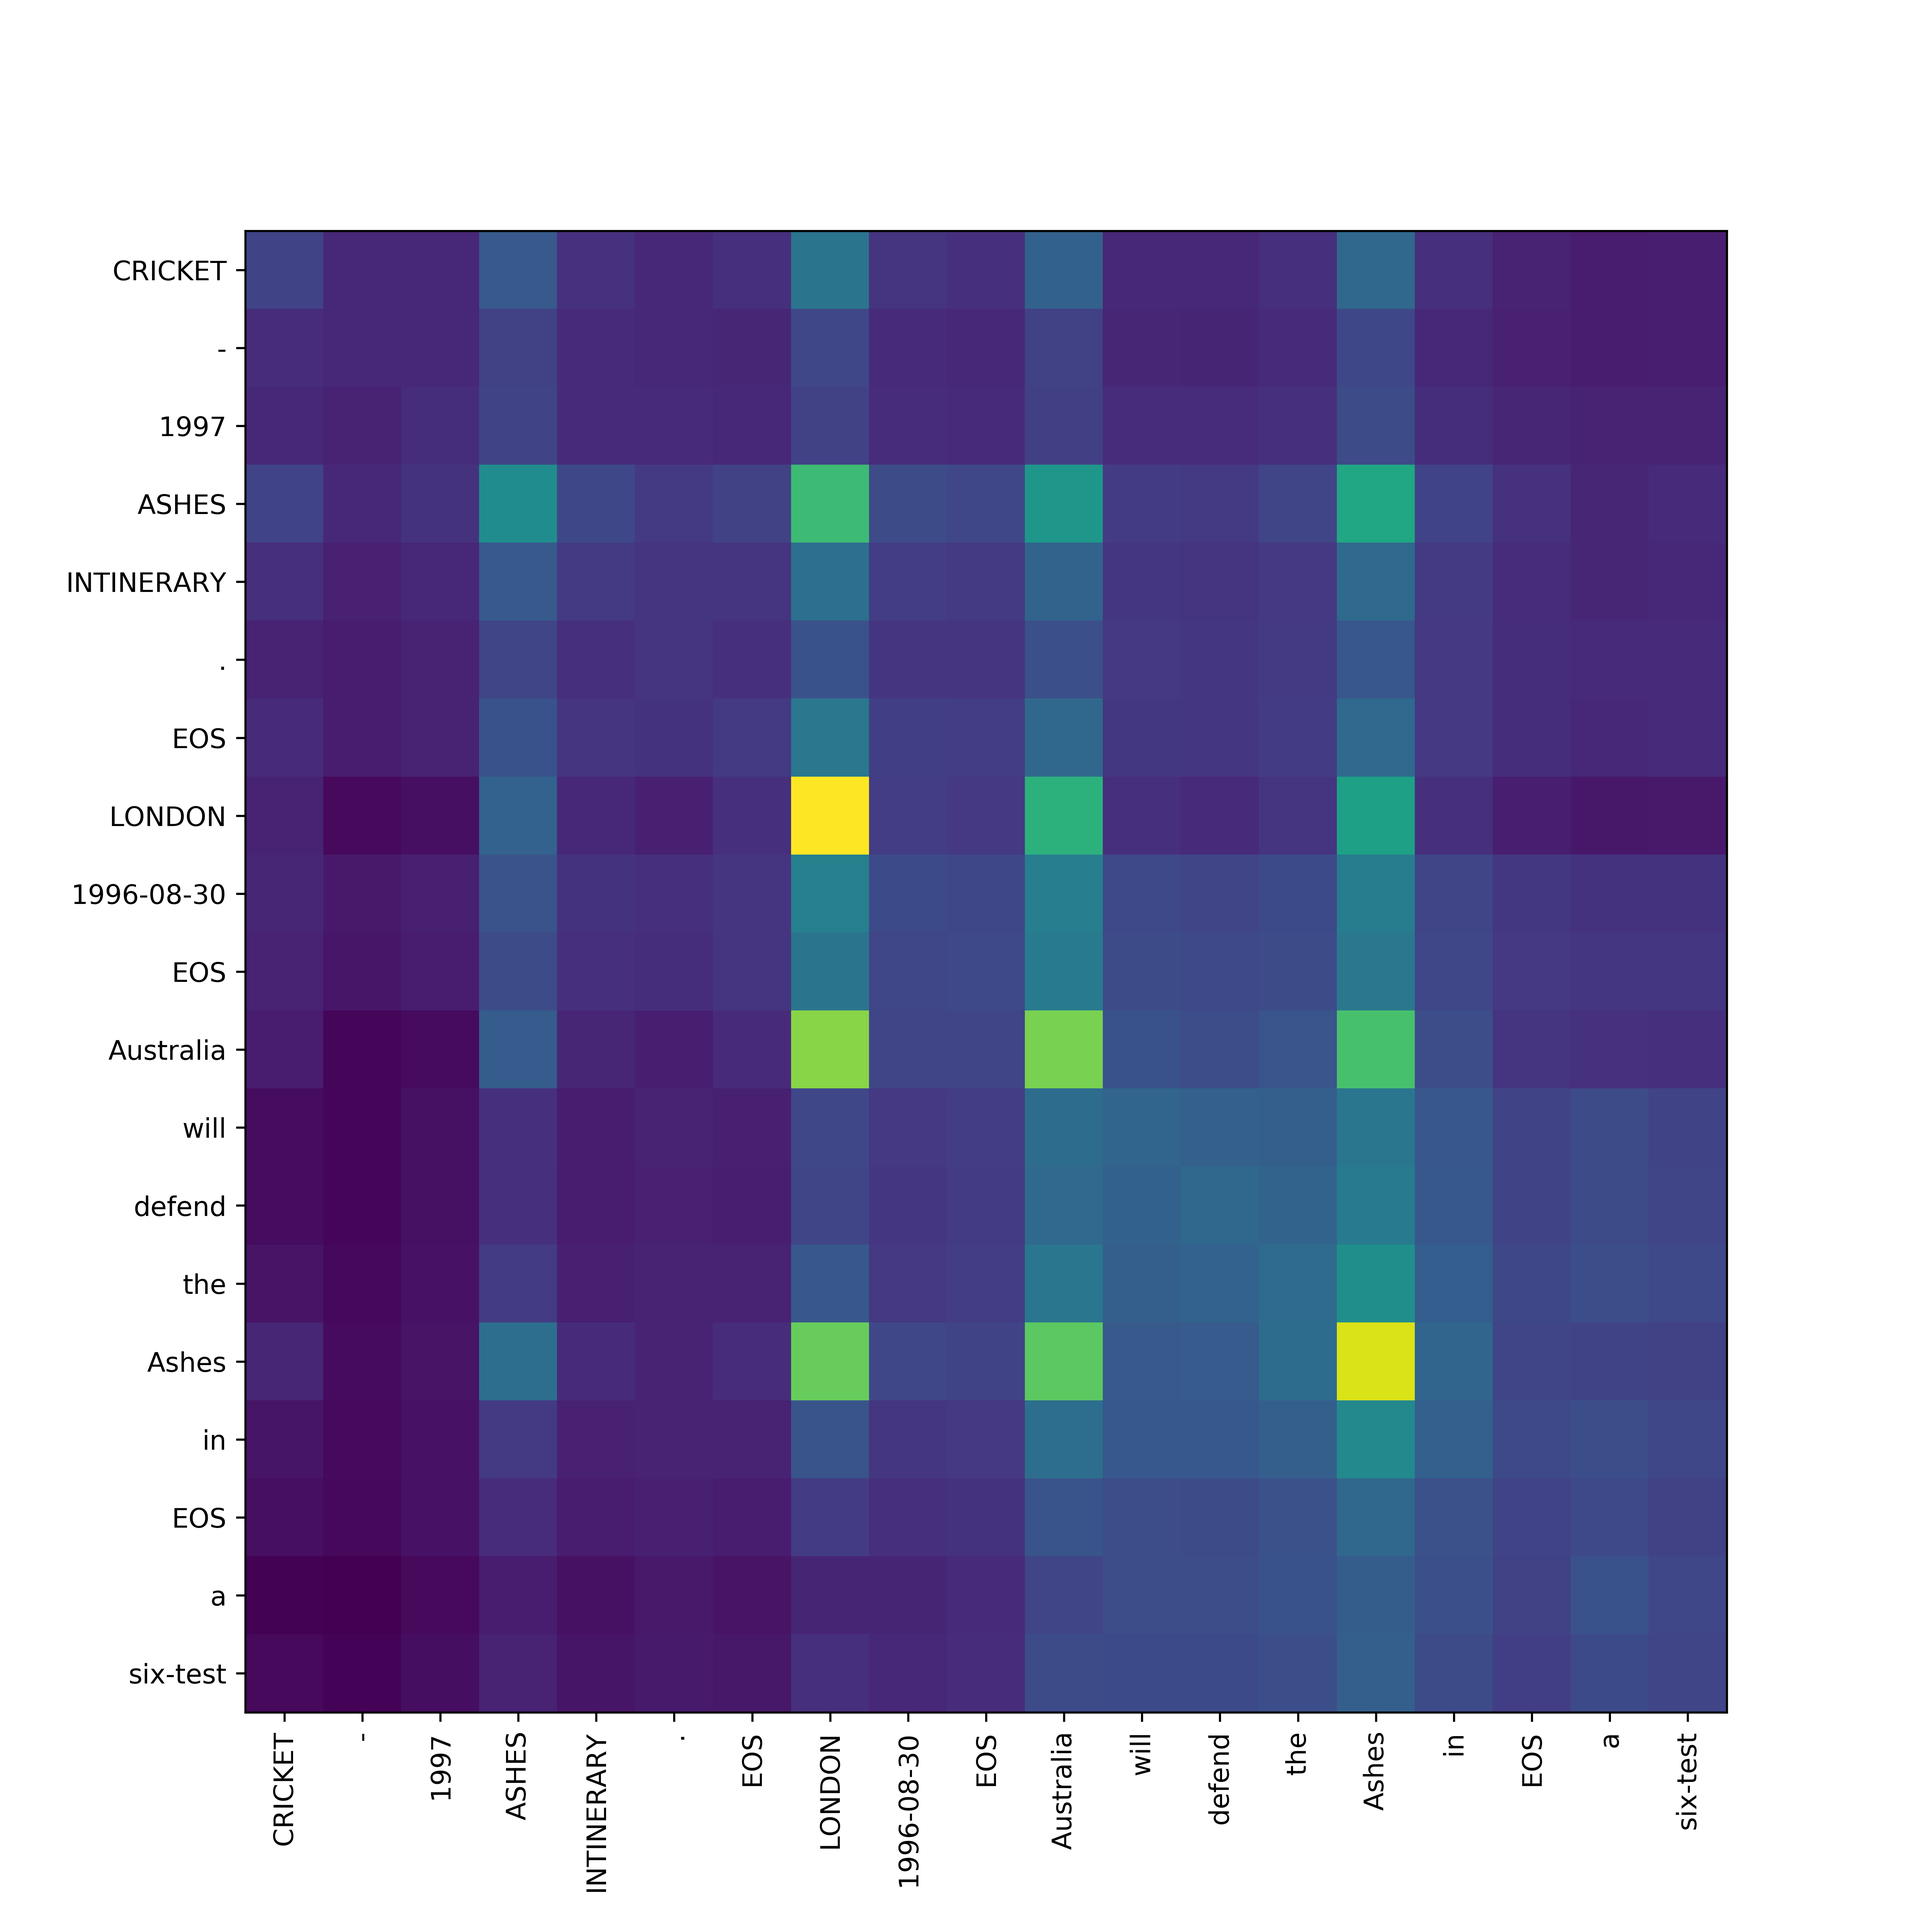
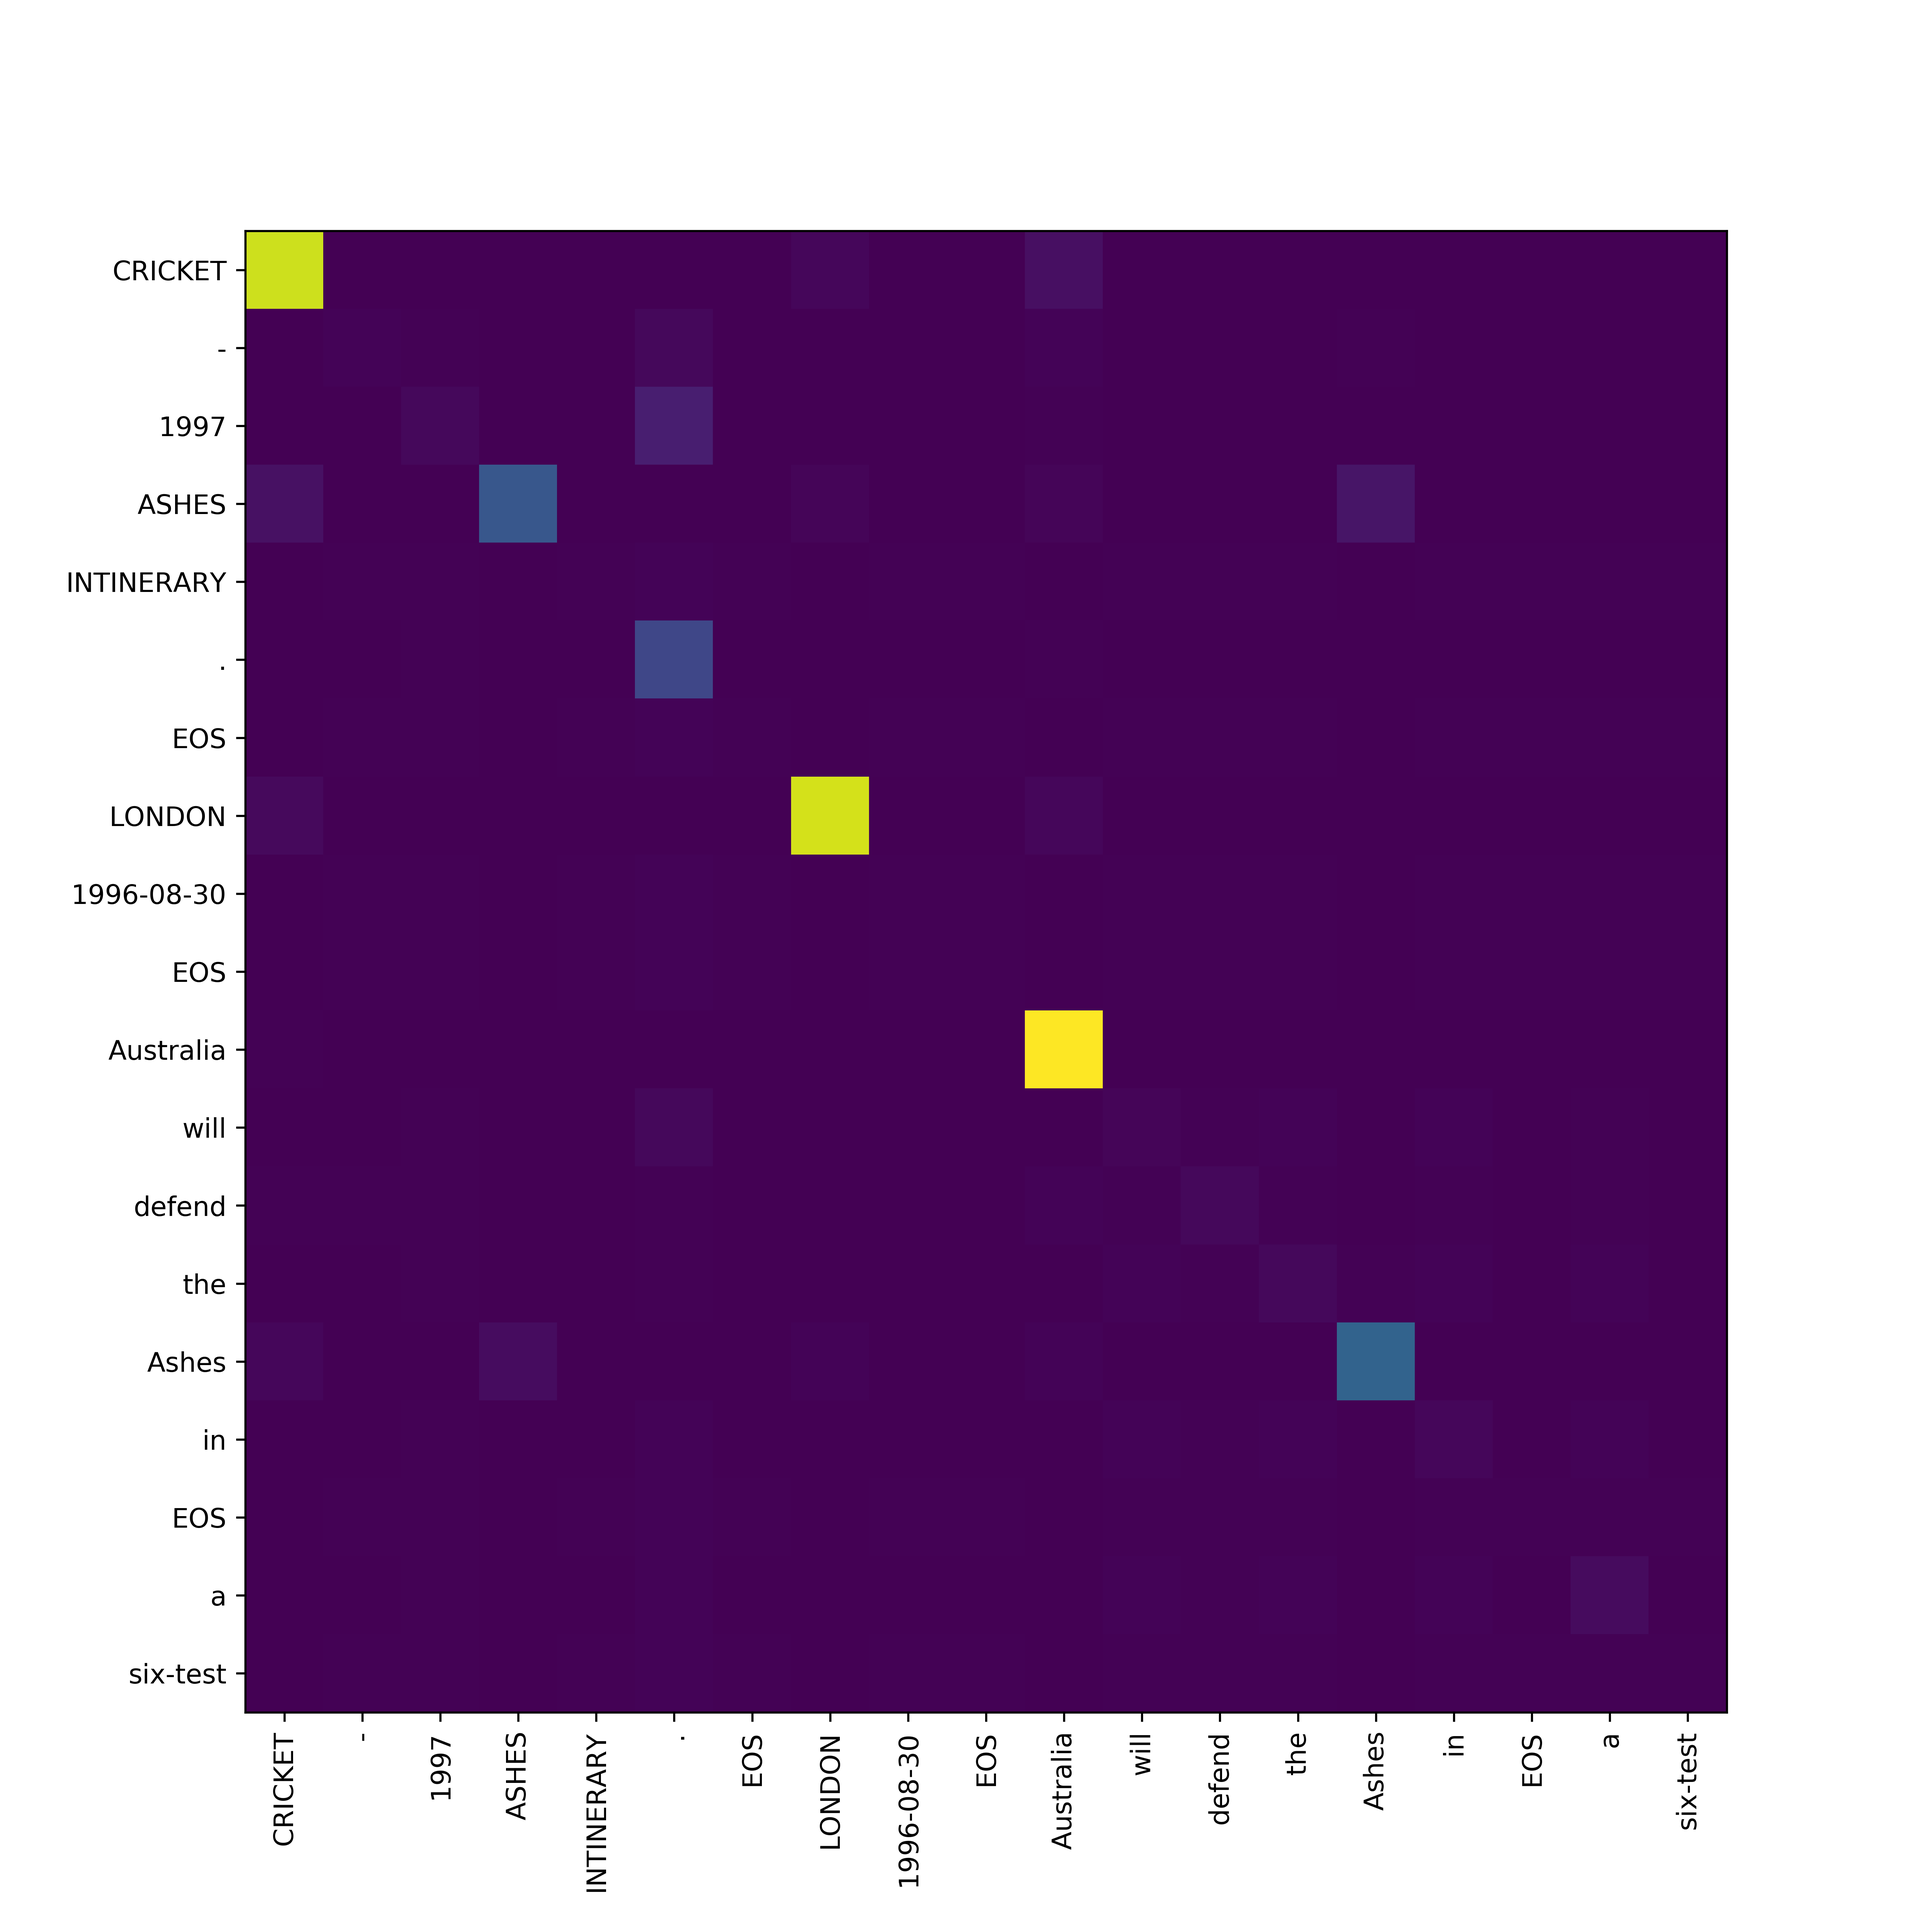
Multiheaded attention.

diff --git a/model/model.py b/model/model.py
@@ -19,7 +19,7 @@ params = {
     'num_oov_buckets': 1,
     'filters': 50,
     'kernel_size': 3,
-    'lstm_size': 400,
+    'lstm_size': 200,
     'attention_size': 150,
     'learning_rate': 0.001,
     'words': str(Path(DATADIR, 'vocab.words.txt')),
@@ -91,12 +91,12 @@ def bahdanau(x, attention_size=100, name='bahdanau'):
   z = tf.map_fn(fn, v)
   return tf.transpose(z, [2, 1, 0], name=name) 
 
-def single_head_self_attention(inputs, name='shsa'):
+def single_head_self_attention(inputs, outputs, name='shsa'):
   hidden_size = inputs.shape[2].value
 
   queries = tf.layers.dense(inputs, hidden_size)
   keys    = queries
-  values  = tf.layers.dense(inputs, hidden_size)
+  values  = tf.layers.dense(outputs, hidden_size)
 
   dot = tf.matmul(queries, tf.transpose(keys, [0, 2, 1]))
   scaled_dot = tf.divide(dot, math.sqrt(hidden_size))
@@ -107,15 +107,15 @@ def single_head_self_attention(inputs, name='shsa'):
 def multi_head_self_attention(inputs, outputs):
   hidden_size = inputs.shape[2].value
 
-  num_heads = 4
+  num_heads = 2
   att_layers = []
   for i in range(num_heads):
-    att_layers.append(single_head_self_attention(inputs, name='alphas' + str(i)))
+    att_layers.append(single_head_self_attention(inputs, outputs, name='alphas' + str(i)))
 
   return tf.layers.dense(tf.concat(att_layers, axis=-1), hidden_size)
 
-def attention(input1, input2, attention_size, training=False):
-  return multi_head_self_attention(input1, input1)
+def attention(inputs, outputs, attention_size, training=False):
+  return multi_head_self_attention(inputs, outputs)
   # return self_attention(input1, input2, training=training)
 
   # hidden_size = input1.shape[2].value
@@ -190,8 +190,8 @@ def create_model():
   
     # Char 1d convolution
     weights = tf.sequence_mask(nchars)
-    char_embeddings = masked_conv1d_and_max(char_embeddings_pre, weights, params['filters'], params['kernel_size']) 
-    # char_embeddings = lstm_char_representations(char_embeddings, nchars)
+    # char_embeddings = masked_conv1d_and_max(char_embeddings_pre, weights, params['filters'], params['kernel_size']) 
+    char_embeddings = lstm_char_representations(char_embeddings, nchars)
 
     # Word Embeddings
     word_ids = vocab_words.lookup(words)
@@ -220,10 +220,10 @@ def create_model():
     output = tf.add(output_fw, output_bw, name='lstm_states')
     output = tf.layers.dropout(output, rate=dropout, training=training)
 
-    output2 = attention(output, output, params['attention_size'], training=training)
+    output2 = attention(t, output, params['attention_size'], training=training)
     
     # output = tf.nn.relu(output + output2)
-    output = output + output2
+    output = tf.concat([output, output2], axis=-1)
 
     # output = tf.concat([output, output2], axis=-1)
     logits = tf.layers.dense(output, num_tags)

diff --git a/model/train.py b/model/train.py
@@ -228,7 +228,7 @@ def plot_attention(filename, doc, checkpoint=''):
       'embeddings/embedding_lookup_1/Identity:0',
       'prediction/index_to_string_Lookup:0',
       'loss/loss:0', 'loss/accuracy:0', 
-      # 'lstm/alphas1:0', 
+      'lstm/alphas1:0', 
       # 'lstm/alphas2:0', 
       # 'lstm/alphas3:0', 
     ]
@@ -247,11 +247,12 @@ def plot_attention(filename, doc, checkpoint=''):
     preds_ = result[3]
     loss = result[4]
     acc = result[5]
-    # alphas1 = result[6][0]
+    alphas1 = result[6][0]
     # alphas2 = result[7][0]
     # alphas3 = result[8][0]
     print('Loss: %f, Accuracy: %f' % (loss, acc))
 
-    alphas = (alphas + alphas1 + alphas2 + alphas3) / 4.0
+    # alphas = (alphas + alphas1 + alphas2 + alphas3) / 4.0
+    alphas = (alphas + alphas1) / 2.0
 
     return words_, alphas, word_emb_ids, word_embs, preds_[0], labels_
